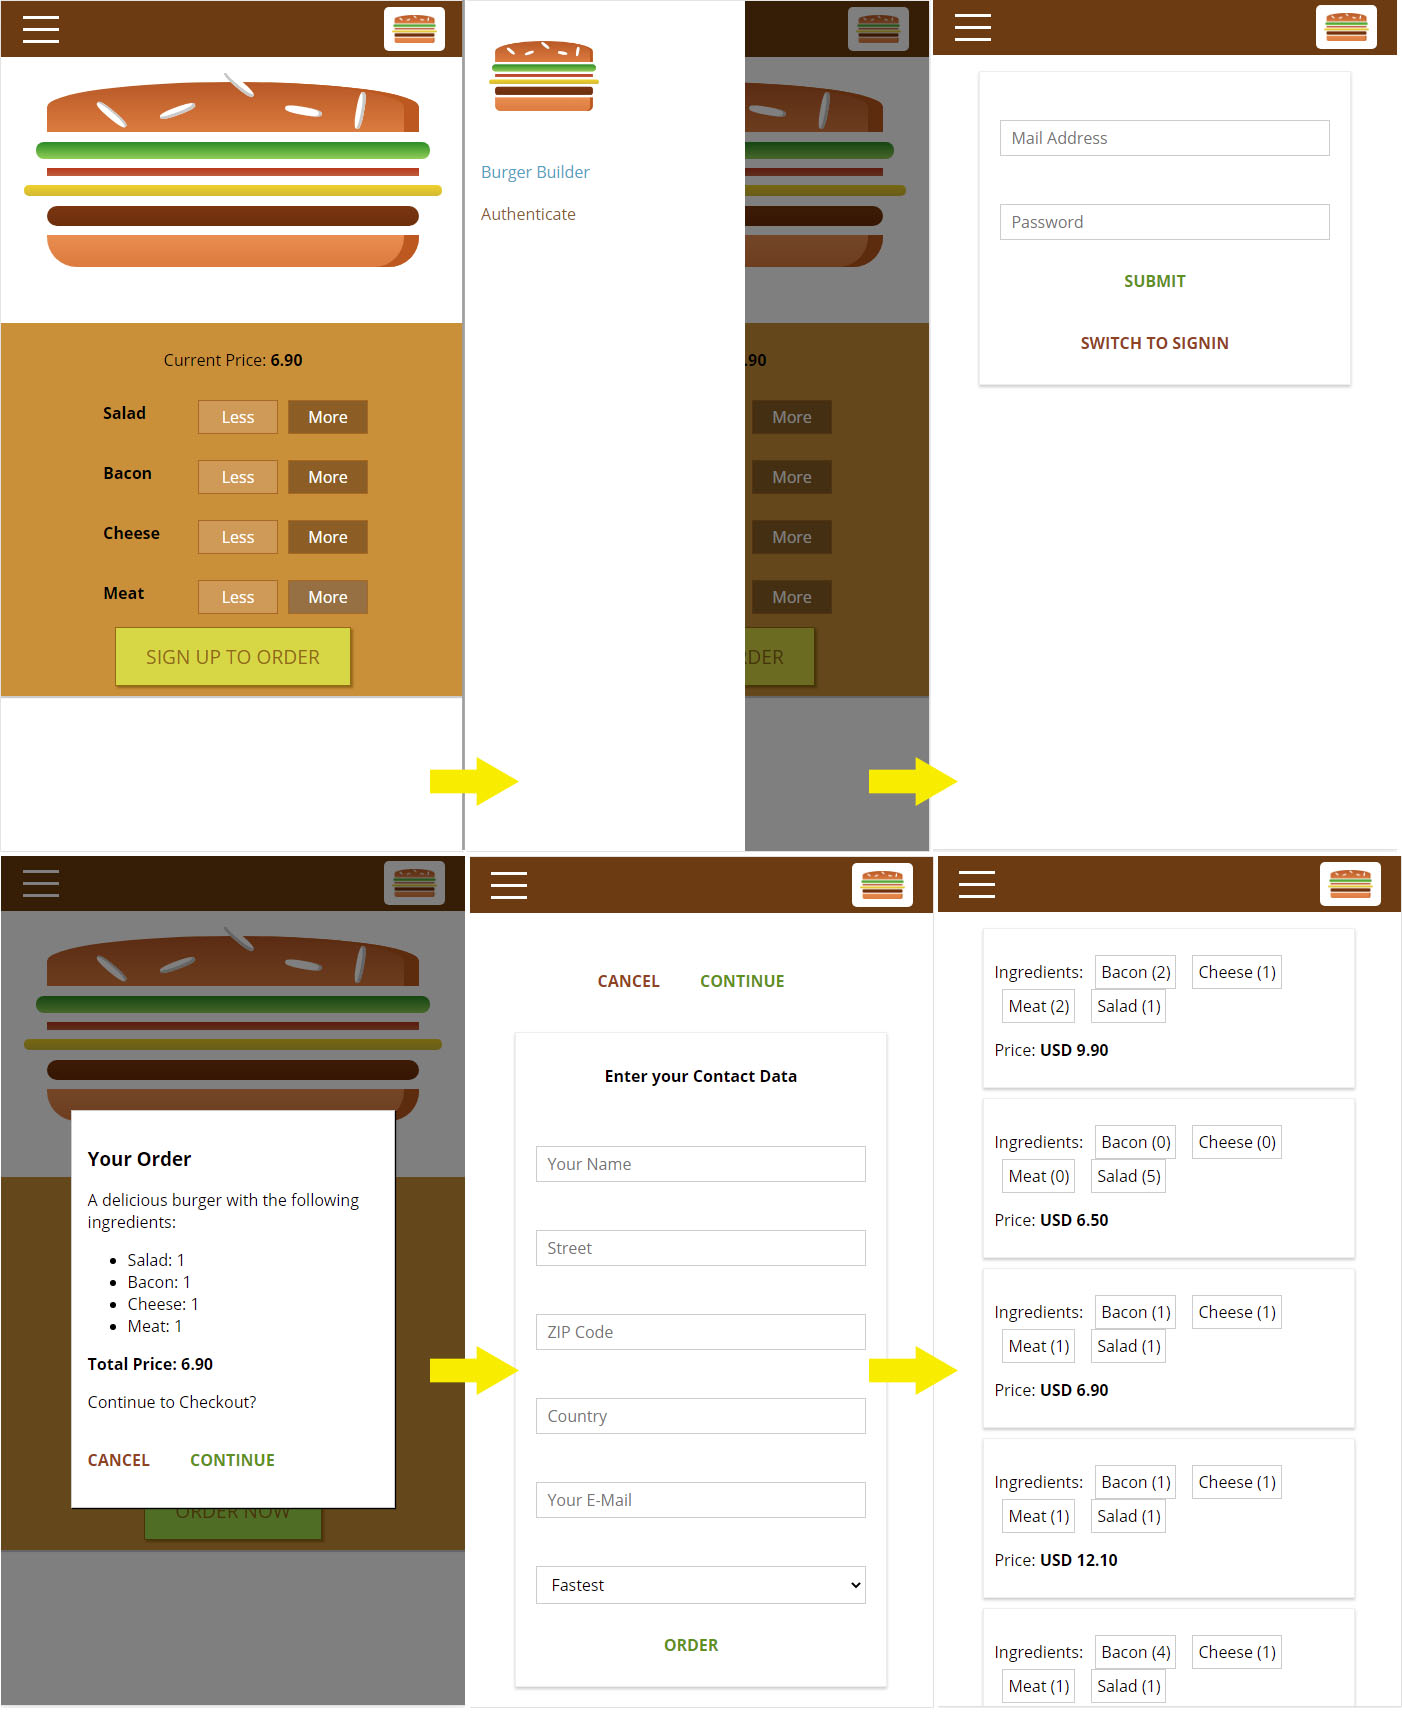
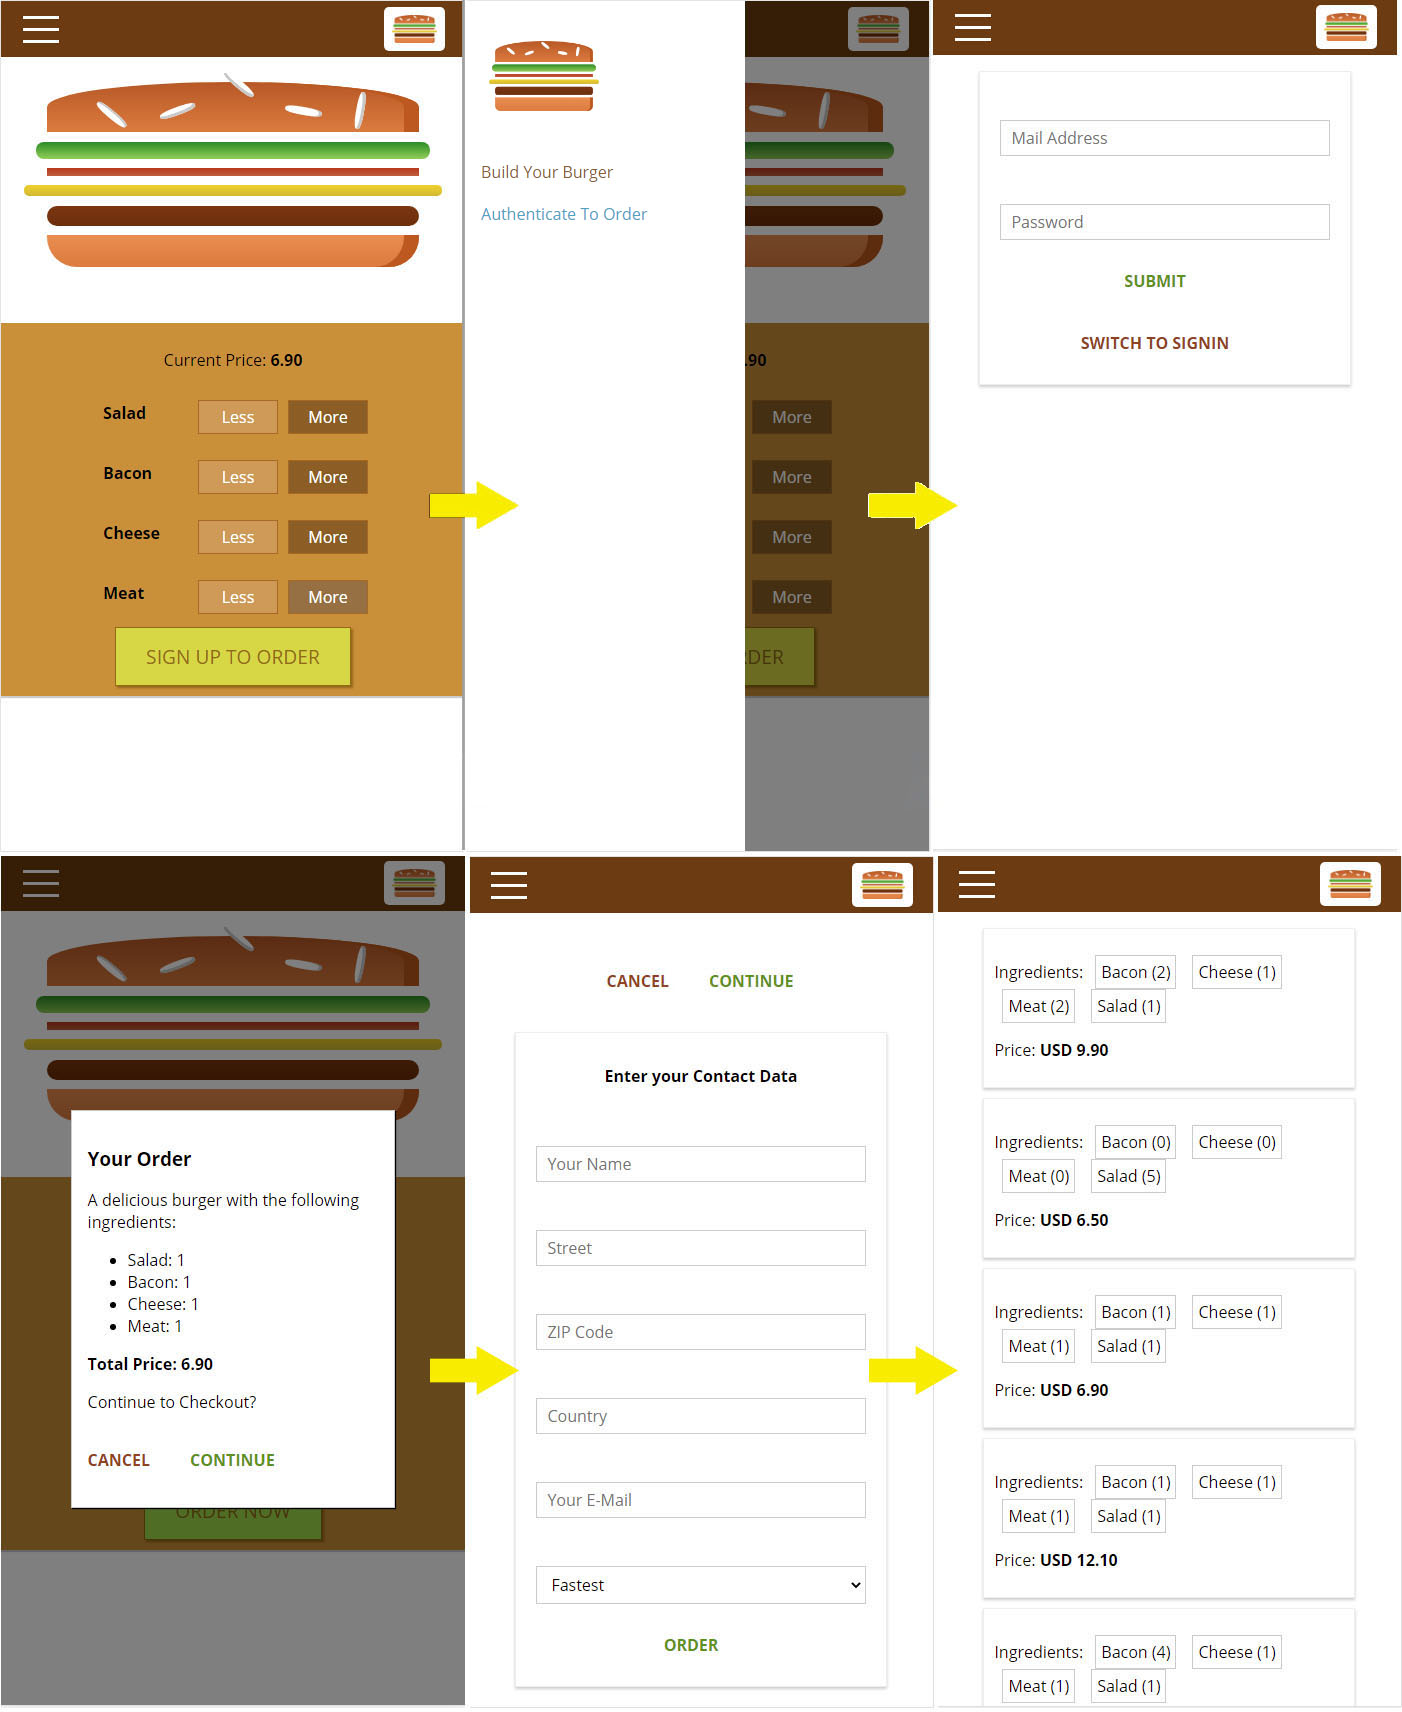
Add files via upload
Changing navigation menu and readmeImg.jpg

diff --git a/NavigationItems.js b/NavigationItems.js
@@ -1,0 +1,16 @@
+import React from 'react';
+
+import './NavigationItems.css';
+import NavigationItem from './NavigationItem/NavigationItem';
+
+const navigationItems = ( props ) => (
+    <ul className='NavigationItems'>
+        <NavigationItem link="/" exact>Build Your Burger</NavigationItem>
+        {props.isAuthenticated ? <NavigationItem link="/orders">Orders</NavigationItem> : null}
+        {!props.isAuthenticated
+            ? <NavigationItem link="/auth">Authenticate To Order</NavigationItem>
+            : <NavigationItem link="/logout">Logout</NavigationItem>}
+    </ul>
+);
+
+export default navigationItems;
